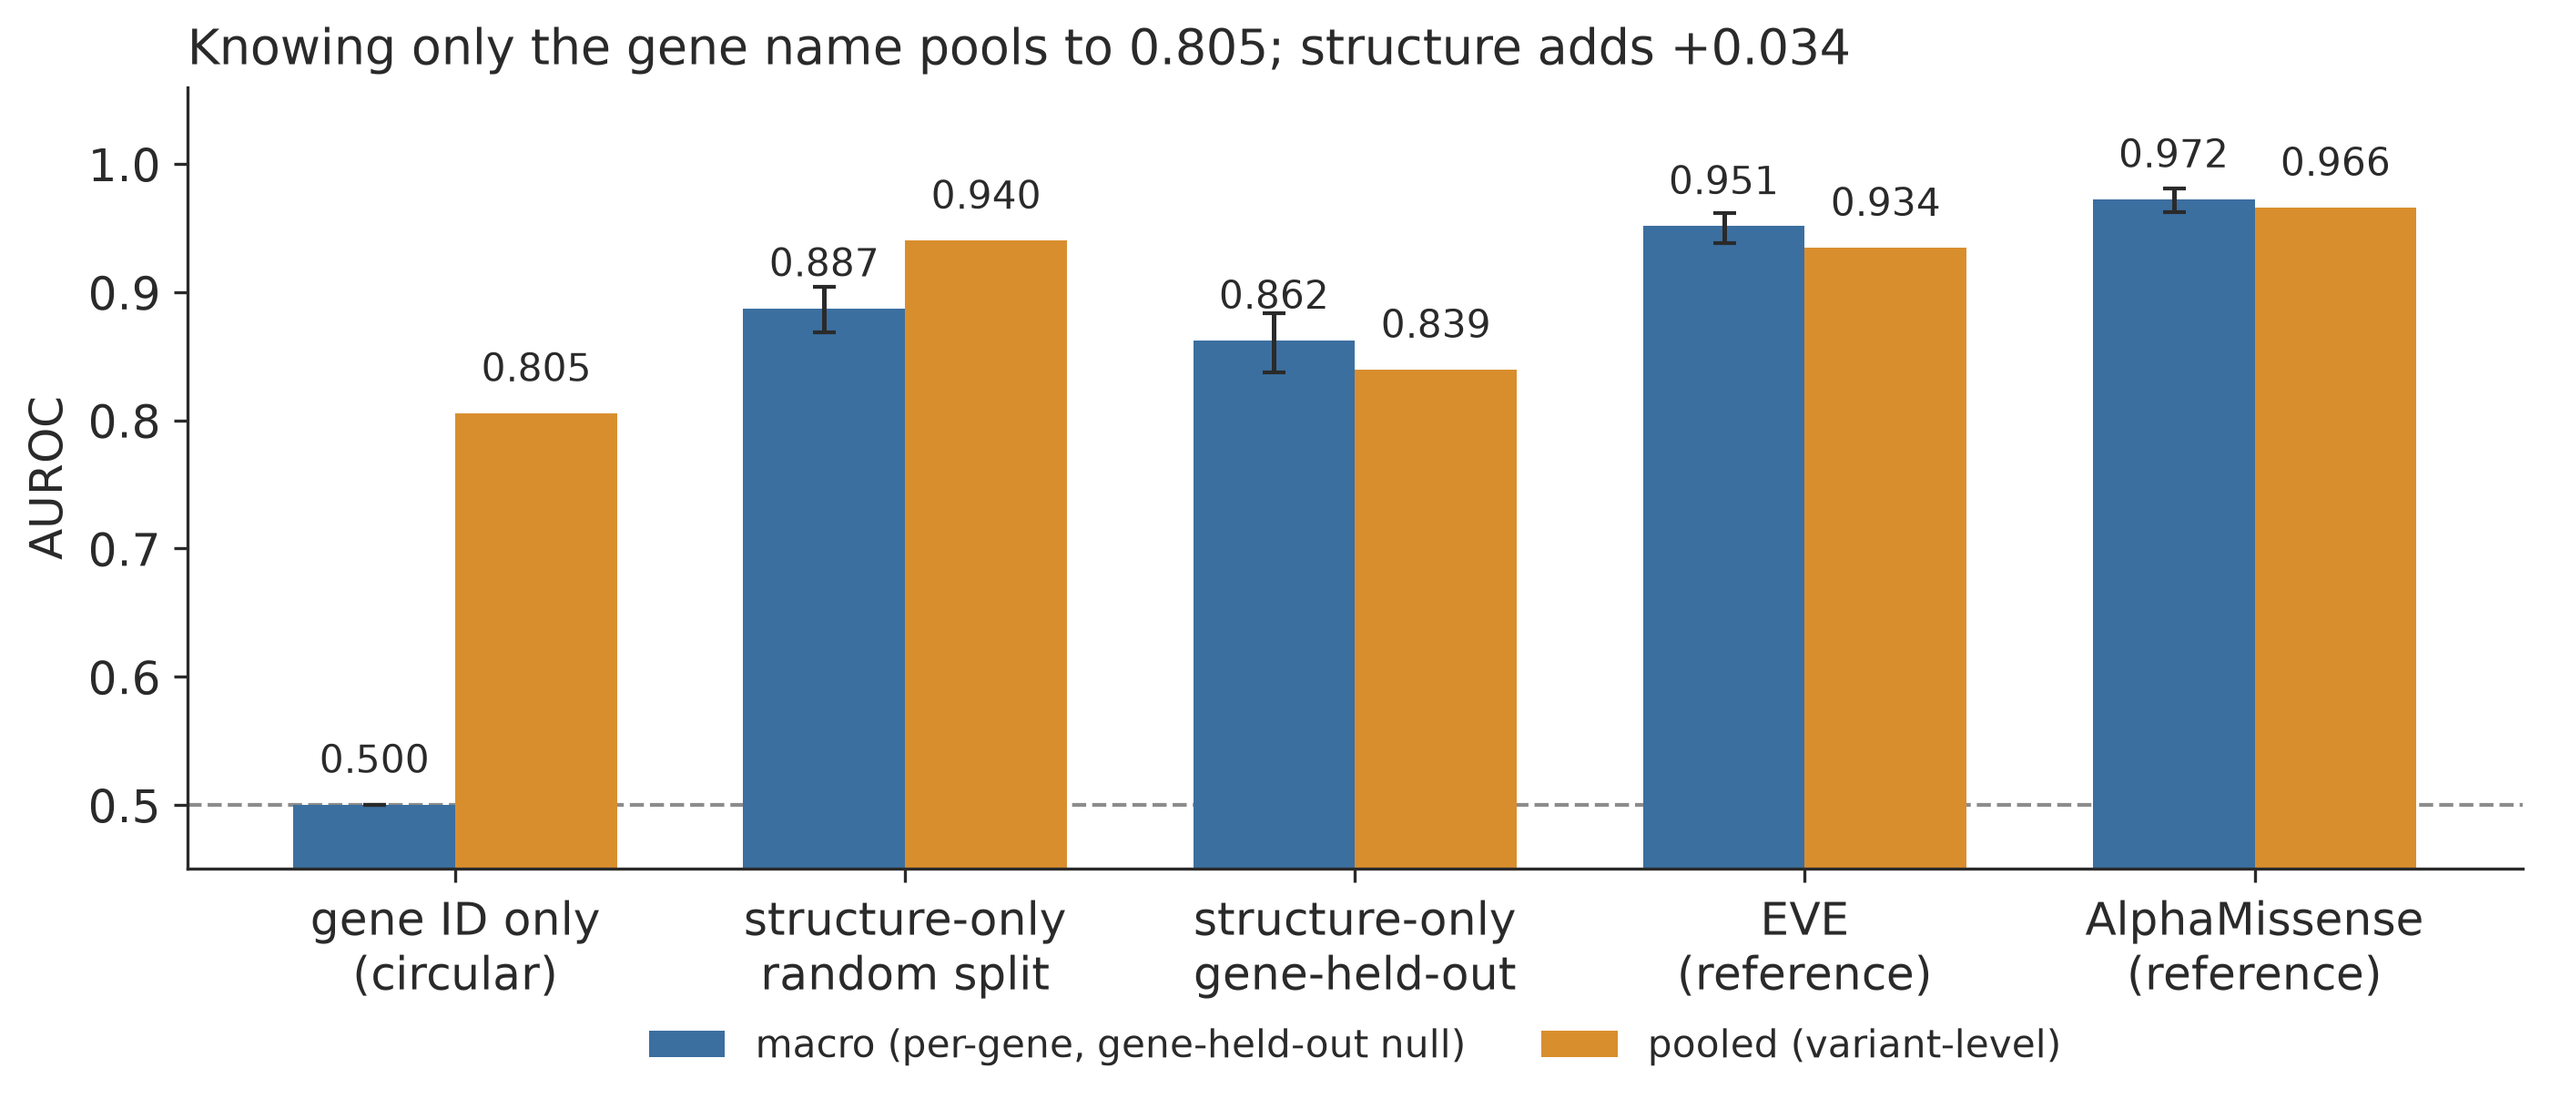
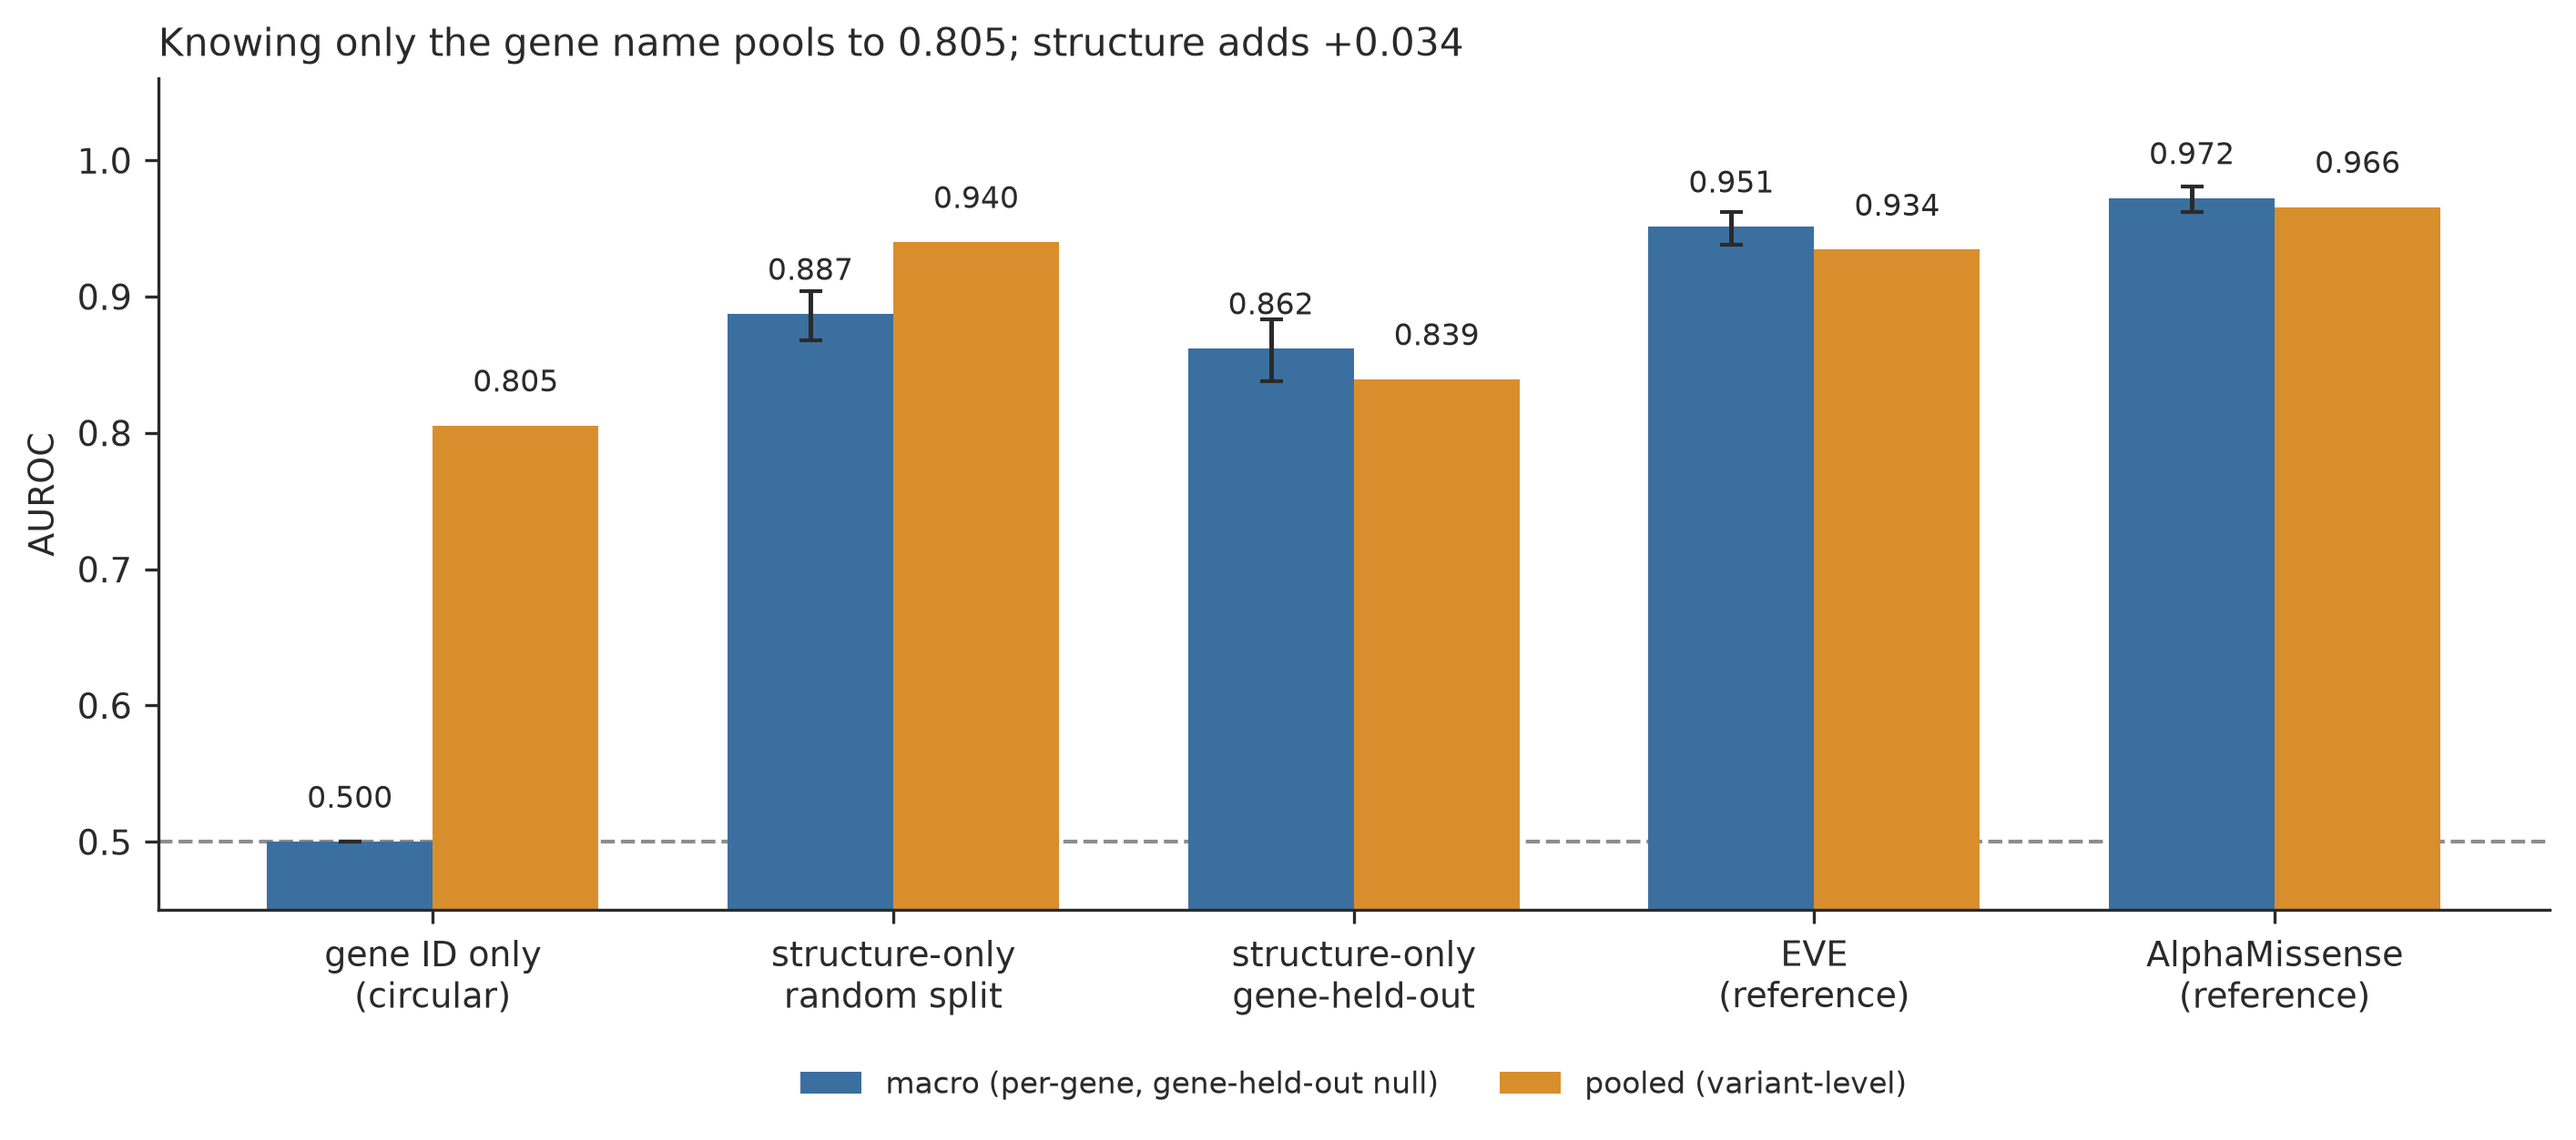
Shrink poster figure text relative to plot area
Base font size 12->9pt and every explicit title/label/legend override
scaled down proportionally; text was dominating the figures at their
working size.

diff --git a/poster/make_figs.py b/poster/make_figs.py
@@ -32,7 +32,7 @@ VIRIDIS = plt.cm.viridis
 
 plt.rcParams.update({
     "font.family": "sans-serif",
-    "font.size": 12,
+    "font.size": 9,
     "axes.spines.top": False,
     "axes.spines.right": False,
     "axes.edgecolor": DARK,
@@ -99,19 +99,19 @@ macro_err = np.vstack([
 ax.errorbar(x - w / 2, sub["macro_auroc"], yerr=macro_err, fmt="none", ecolor=DARK, capsize=3, lw=1.2)
 
 for xi, v in zip(x - w / 2, sub["macro_auroc"]):
-    ax.text(xi, v + 0.025, f"{v:.3f}", ha="center", fontsize=10)
+    ax.text(xi, v + 0.025, f"{v:.3f}", ha="center", fontsize=8)
 for xi, v in zip(x + w / 2, sub["pooled_auroc"]):
-    ax.text(xi, v + 0.025, f"{v:.3f}", ha="center", fontsize=10)
+    ax.text(xi, v + 0.025, f"{v:.3f}", ha="center", fontsize=8)
 
 ax.axhline(0.5, color=GRAY, lw=1, ls="--", zorder=0)
 ax.set_ylim(0.45, 1.06)
 ax.set_xticks(x)
 ax.set_xticklabels(labels)
 ax.set_ylabel("AUROC")
-ax.legend(loc="upper center", bbox_to_anchor=(0.5, -0.16), ncol=2, frameon=False, fontsize=10)
+ax.legend(loc="upper center", bbox_to_anchor=(0.5, -0.16), ncol=2, frameon=False, fontsize=8)
 ax.set_title(
     "Knowing only the gene name pools to 0.805; structure adds +0.034",
-    fontsize=13, loc="left",
+    fontsize=10, loc="left",
 )
 fig.tight_layout()
 savefig(fig, "fig1_gene_id_null")
@@ -152,12 +152,12 @@ gaps = [gap150, gap400]
 ns = [54, 103]
 bars = ax.bar(xs, gaps, width=0.5, color=[GRAY, ORANGE])
 for xi, g, n in zip(xs, gaps, ns):
-    ax.text(xi, g + 0.001, f"+{g:.3f}", ha="center", fontsize=11)
+    ax.text(xi, g + 0.001, f"+{g:.3f}", ha="center", fontsize=8)
 ax.set_xticks(xs)
 ax.set_xticklabels([f"150 genes\n(54 evaluable)", f"400 genes\n(103 evaluable)"])
 ax.set_ylabel("pooled AUROC − gene-ID-null pooled AUROC")
 ax.set_ylim(0, 0.045)
-ax.set_title("The 150-gene gap (+0.001) does not\nreplicate at 400 genes (+0.034)", fontsize=12, loc="left")
+ax.set_title("The 150-gene gap (+0.001) does not\nreplicate at 400 genes (+0.034)", fontsize=9.5, loc="left")
 
 ax = axes[1]
 macro = [r150["struct_heldout_macro"], r400["struct_heldout_macro"]]
@@ -166,13 +166,13 @@ hi = [r150["struct_heldout_macro_hi"], r400["struct_heldout_macro_hi"]]
 err = np.vstack([np.array(macro) - np.array(lo), np.array(hi) - np.array(macro)])
 ax.errorbar(xs, macro, yerr=err, fmt="o", color=BLUE, capsize=4, markersize=8, lw=1.5)
 for xi, v in zip(xs, macro):
-    ax.text(xi + 0.08, v, f"{v:.3f}", va="center", fontsize=11)
+    ax.text(xi + 0.08, v, f"{v:.3f}", va="center", fontsize=8)
 ax.set_xlim(-0.5, 1.7)
 ax.set_xticks(xs)
 ax.set_xticklabels(["150 genes", "400 genes"])
 ax.set_ylabel("structure-only, gene-held-out\nmacro AUROC (95% CI over genes)")
 ax.set_ylim(0.78, 0.92)
-ax.set_title("Gene-held-out macro AUROC rises\nand its CI tightens at scale", fontsize=12, loc="left")
+ax.set_title("Gene-held-out macro AUROC rises\nand its CI tightens at scale", fontsize=9.5, loc="left")
 
 fig.suptitle("")
 fig.tight_layout()
@@ -228,10 +228,10 @@ for i in range(3):
     for j in range(3):
         txt = "1.00" if i == j else f"{M[i, j]:.3f}"
         color = "white" if M[i, j] < 0.75 else "black"
-        ax.text(j, i, txt, ha="center", va="center", color=color, fontsize=12)
+        ax.text(j, i, txt, ha="center", va="center", color=color, fontsize=9)
 cbar = fig.colorbar(im, ax=ax, fraction=0.046, pad=0.04)
 cbar.set_label("variant-weighted\nSpearman rank agreement")
-ax.set_title("No predictor pair is redundant\n(spike: 5 genes, 1,149 variants)", fontsize=11, loc="left")
+ax.set_title("No predictor pair is redundant\n(spike: 5 genes, 1,149 variants)", fontsize=9, loc="left")
 fig.tight_layout()
 savefig(fig, "fig3_rank_agreement")
 
@@ -297,7 +297,7 @@ for g, i in y_pos.items():
     n_neg = int(res[res.gene == g]["n_neg"].iloc[0])
     n = int(res[res.gene == g]["n"].iloc[0])
     flag = "  (unreliable, n_neg<10)" if n_neg < 10 else ""
-    ax.text(1.002, i, f"n={n}, n_neg={n_neg}{flag}", va="center", fontsize=9, color=GRAY)
+    ax.text(1.002, i, f"n={n}, n_neg={n_neg}{flag}", va="center", fontsize=7, color=GRAY)
 
 ax.set_yticks(range(len(gene_order)))
 ax.set_yticklabels(gene_order)
@@ -305,10 +305,10 @@ ax.set_xlim(0.80, 1.13)
 ax.set_xticks([0.80, 0.85, 0.90, 0.95, 1.00])
 ax.axvline(1.0, color=GRAY, lw=0.8, ls=":")
 ax.set_xlabel("per-gene AUROC")
-ax.legend(loc="upper center", bbox_to_anchor=(0.5, -0.15), ncol=3, frameon=False, fontsize=10)
+ax.legend(loc="upper center", bbox_to_anchor=(0.5, -0.15), ncol=3, frameon=False, fontsize=8)
 ax.set_title(
     "PTEN and CFTR look saturated but rest on 6 and 3 negatives",
-    fontsize=12, loc="left",
+    fontsize=9.5, loc="left",
 )
 fig.tight_layout()
 savefig(fig, "fig4_pergene_auroc")
